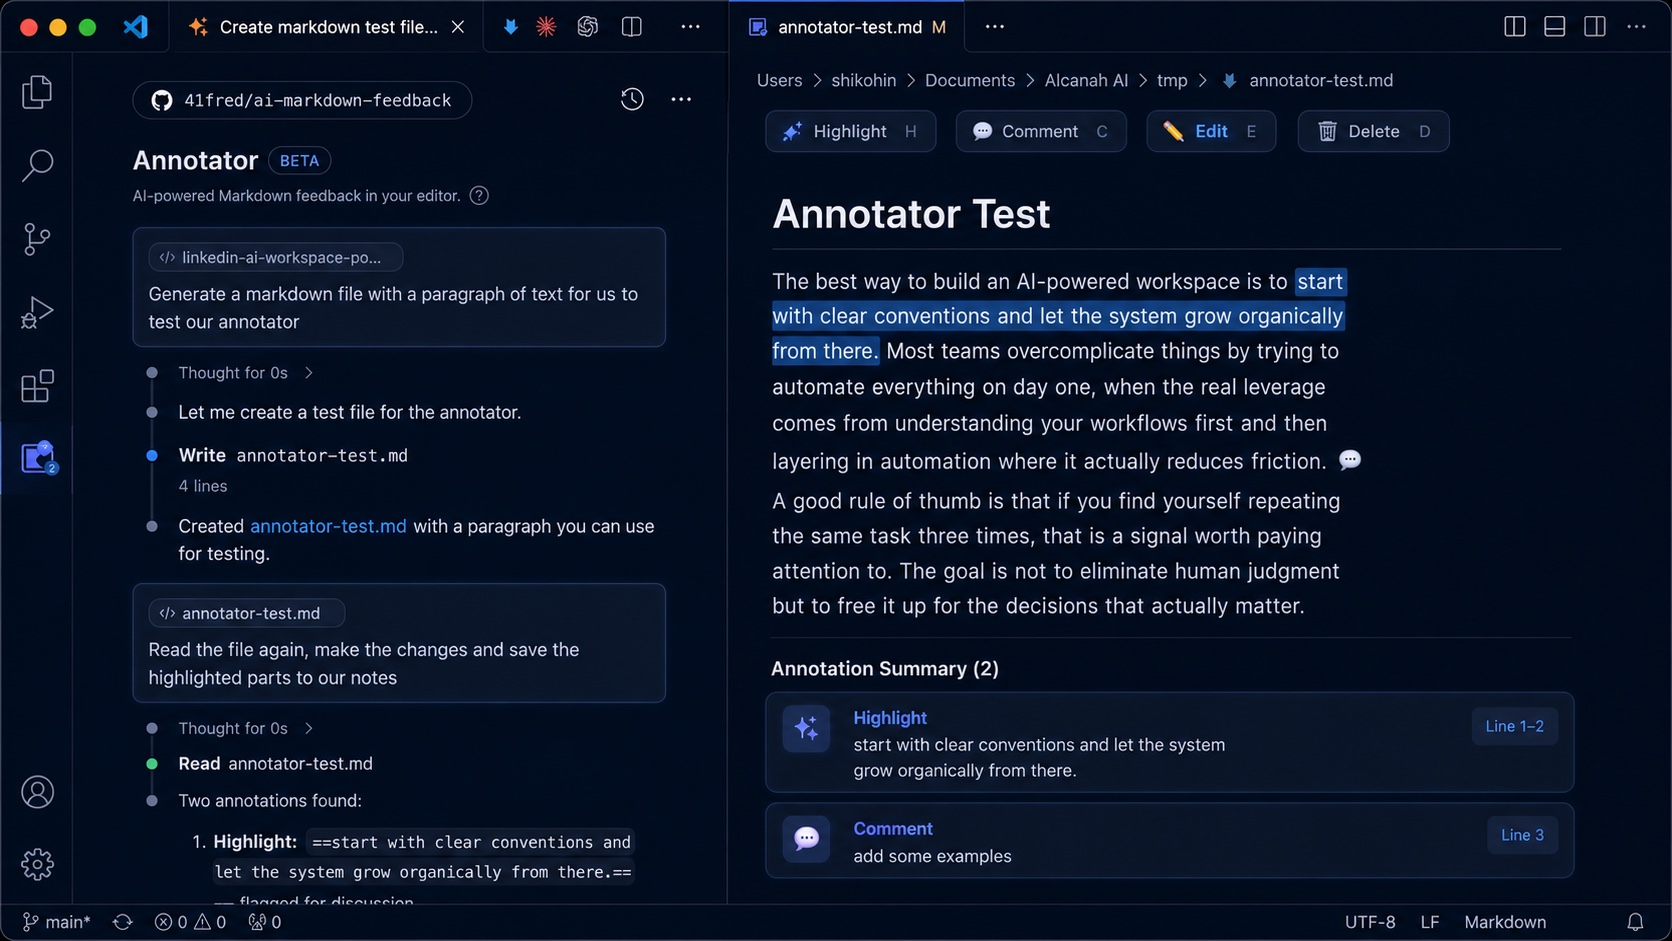
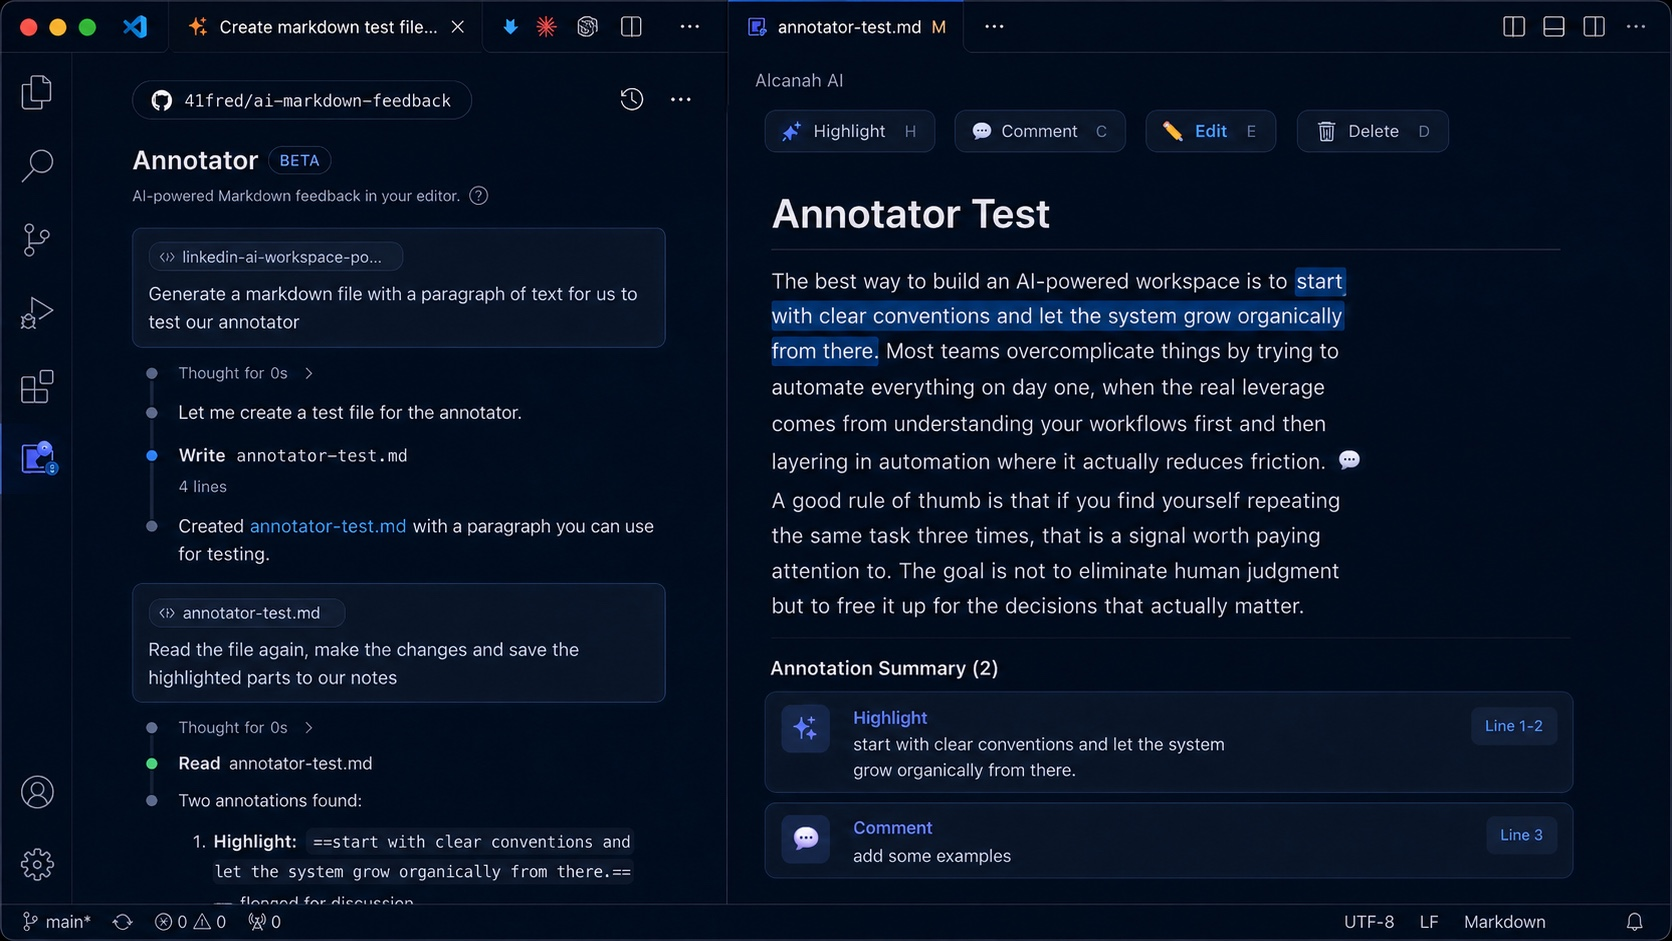
Release 0.4.4: refresh preview screenshot (remove filesystem breadcrumb)

diff --git a/CHANGELOG.md b/CHANGELOG.md
@@ -1,5 +1,11 @@
 # Changelog
 
+## 0.4.4
+
+Preview screenshot refresh.
+
+- Replace the README preview screenshot (`media/preview.jpg`) with a version that removes a filesystem breadcrumb from the editor chrome
+
 ## 0.4.3
 
 Metadata-only release.
